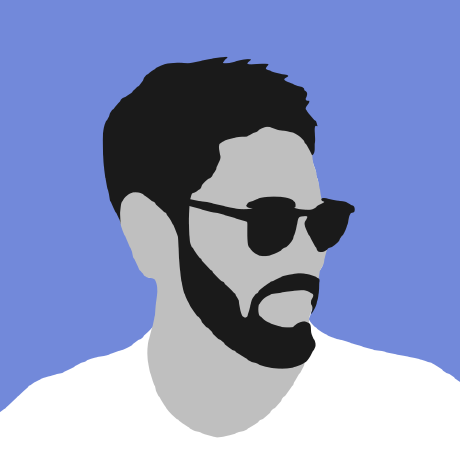
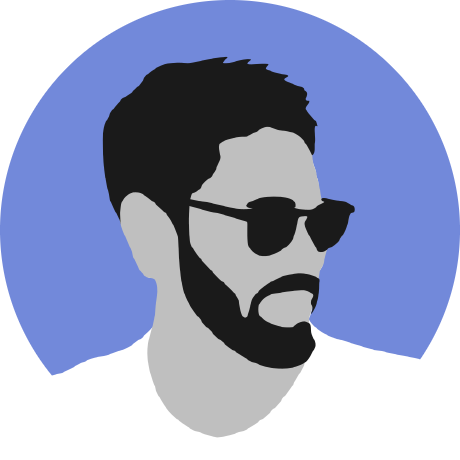
readme.md - changed squared pic with rounded pic

diff --git a/README.md b/README.md
@@ -1,6 +1,6 @@
 <h1 align="center">Hi there, I'm Antonio 👋</h1>
 <p align="center">
-    <img width="125px" style="border-radius: 100%;" src="./img/m0n0t0ny.png">
+    <img width="125px" src="/img/m0n0t0ny.png">
 </p>
 
 ### On my way to become a full-stack developer 🍀
